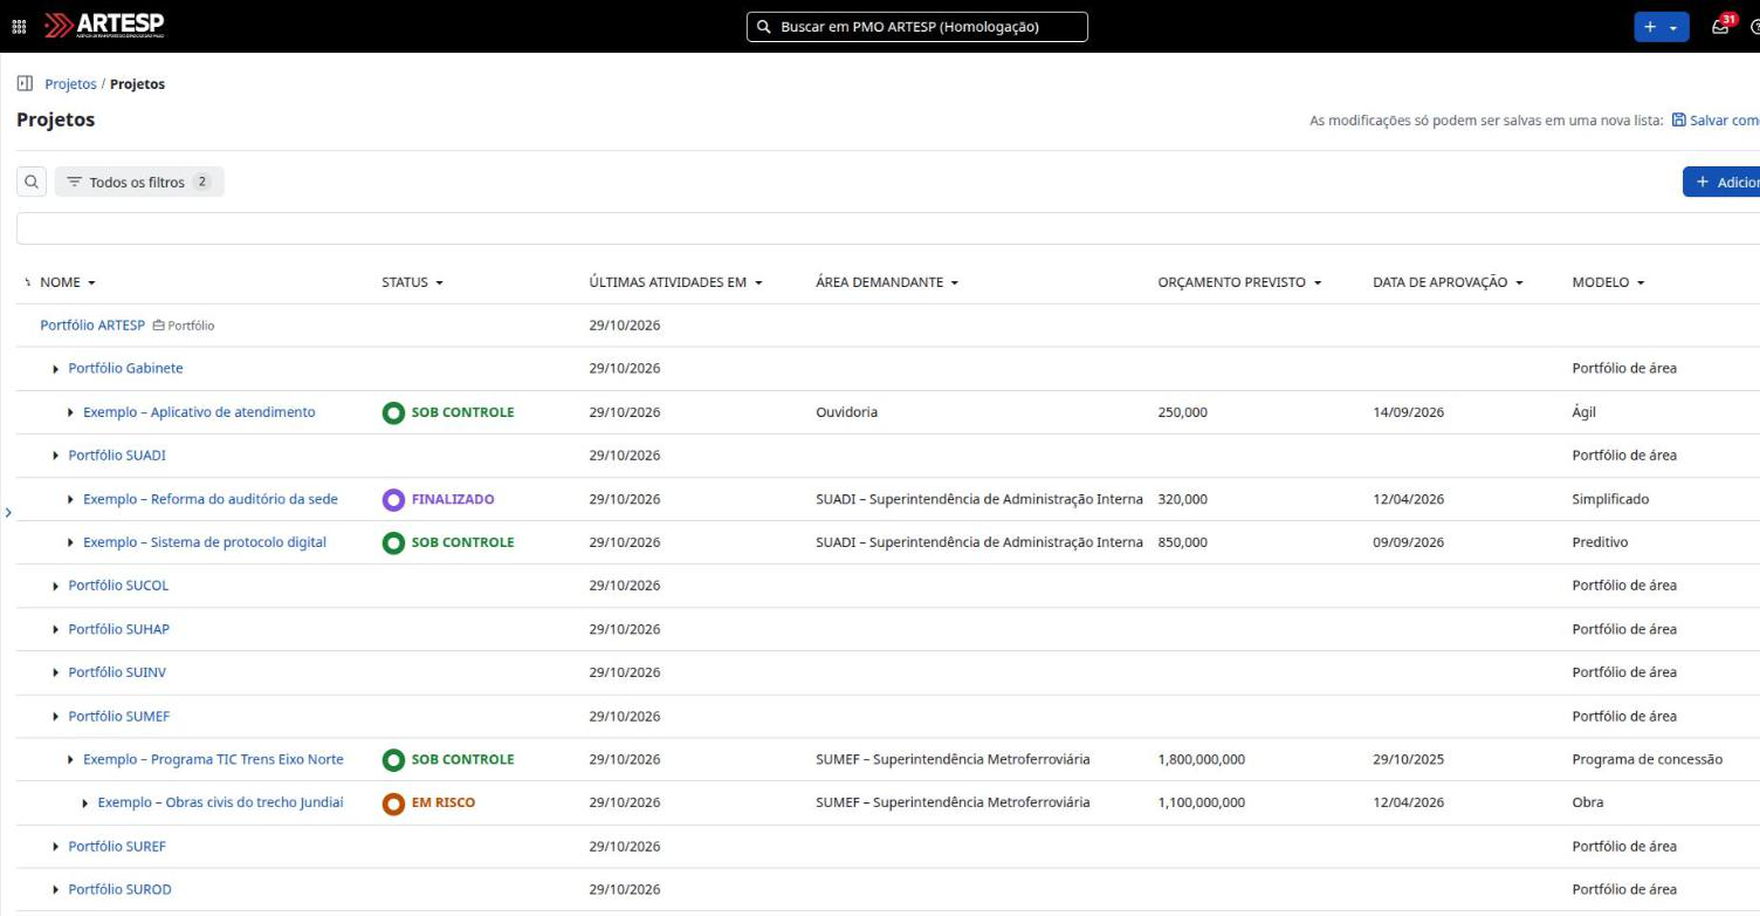
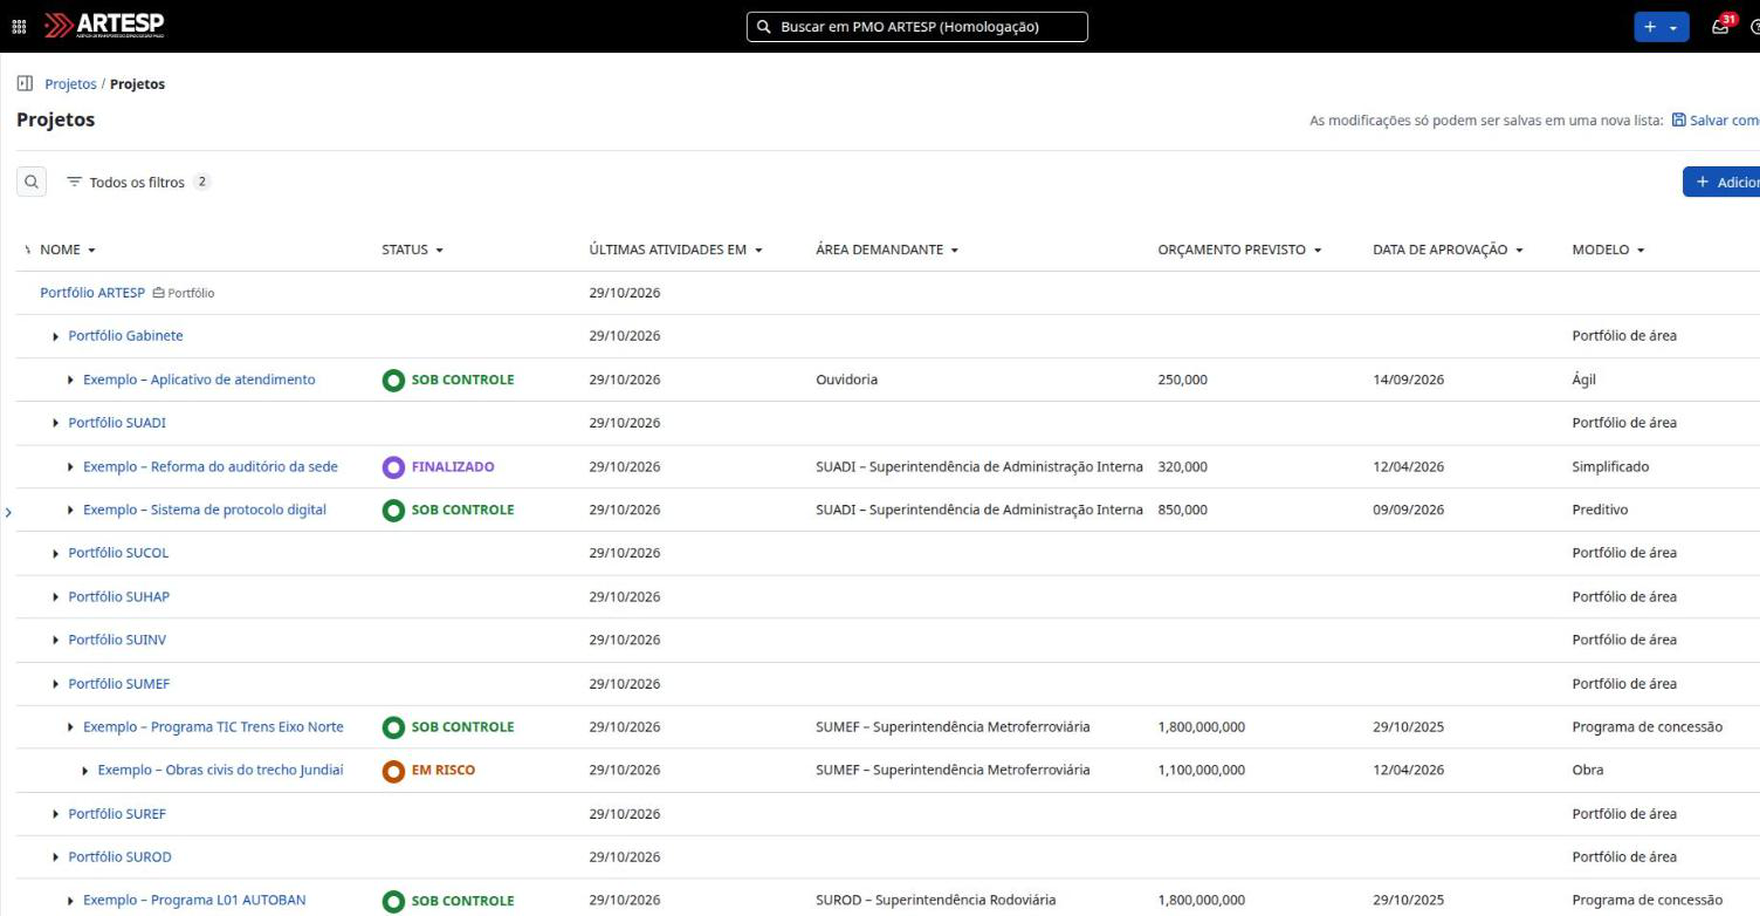
feat: capturas refeitas com a release 8e3576f em hom
Lista do portfólio, quadro da sprint e backlog do projeto Scrum de exemplo
capturados depois das correções da revisão de hom (colunas nas vistas,
quadros por sprint só com status do baseline). CONTINUAR.md registra o
estado e o que ficou de fora do roteiro.

diff --git a/CONTINUAR.md b/CONTINUAR.md
@@ -29,7 +29,13 @@ nomes de pessoas nem detalhes de configuração interna para cá.
    testes), conferir com `make shots` e ler os PNGs em `output/shots/`,
    `git commit`, `make publish`. O `publish` recusa `site/` não commitado.
 3. Portfólios por superintendência: feitos no `artesp-pmo` (release
-   `55b346e`, em hom desde 29/10/2026). Capturas refeitas nesse estado.
+   `55b346e`; correções da revisão de hom na release `8e3576f`, em hom
+   desde 29/10/2026: colunas nas vistas, quadros por sprint só com status
+   do baseline, burndown em degraus). Capturas refeitas nesse estado
+   (`portfolio.png`, `scrum-sutid.png`, `backlog-sutid.png`). O burndown
+   ainda extrapola a altura da tela; o roteiro não o mostra. Projetos de
+   teste criados à mão em hom (`teste`, `teste2`) foram ocultados por JS
+   antes da captura.
    Para a lista do portfólio: `/projects` com filtros ativo = sim e
    projeto modelo = não, painel de filtros fechado, menu lateral
    recolhido, colunas Favorito, Público, Criado em, Armazenamento,
